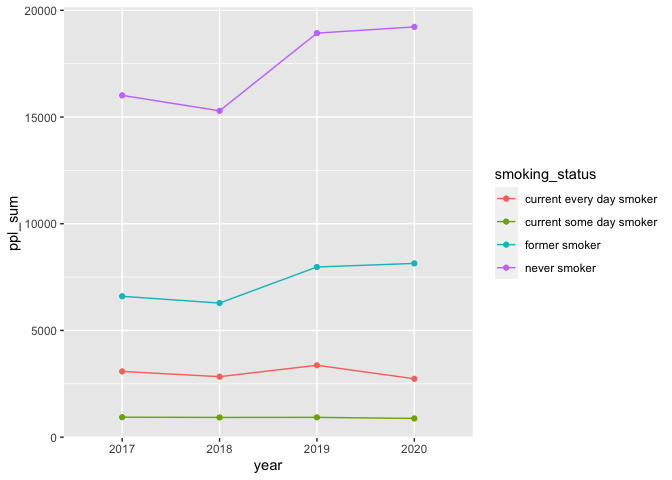
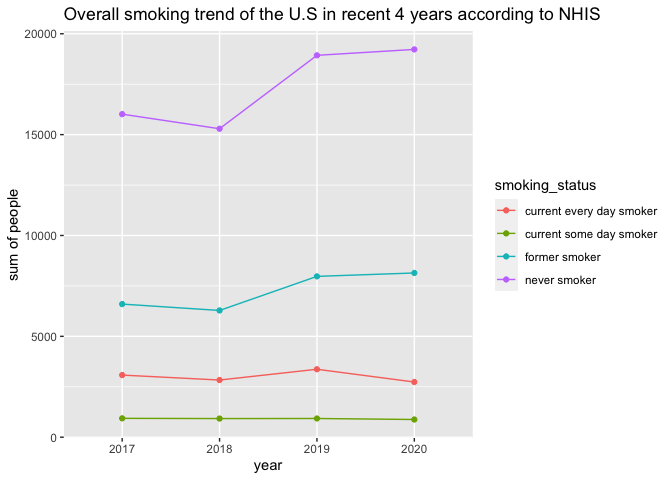
update...

diff --git a/tidy_data.md b/tidy_data.md
@@ -192,9 +192,12 @@ smoke_trend_overall = bind_rows(smoke_trend_2017,smoke_trend_2018,smoke_trend_20
 
 #lets create a ggpplot
 # ***task： try it to make it interactive soon....
+#Problem: Should I use rate instead....???
 smoke_trend_overall %>% 
   ggplot(aes(x = year, y = ppl_sum, group = smoking_status)) + 
-  geom_point(aes(color = smoking_status))+ geom_line(aes(color = smoking_status))
+  geom_point(aes(color = smoking_status))+ geom_line(aes(color = smoking_status))+ 
+ ggtitle("Overall smoking trend of the U.S in recent 4 years according to NHIS ")+
+  labs(y = "sum of people") 
 ```
 
 ![](tidy_data_files/figure-gfm/unnamed-chunk-4-1.png)<!-- -->
